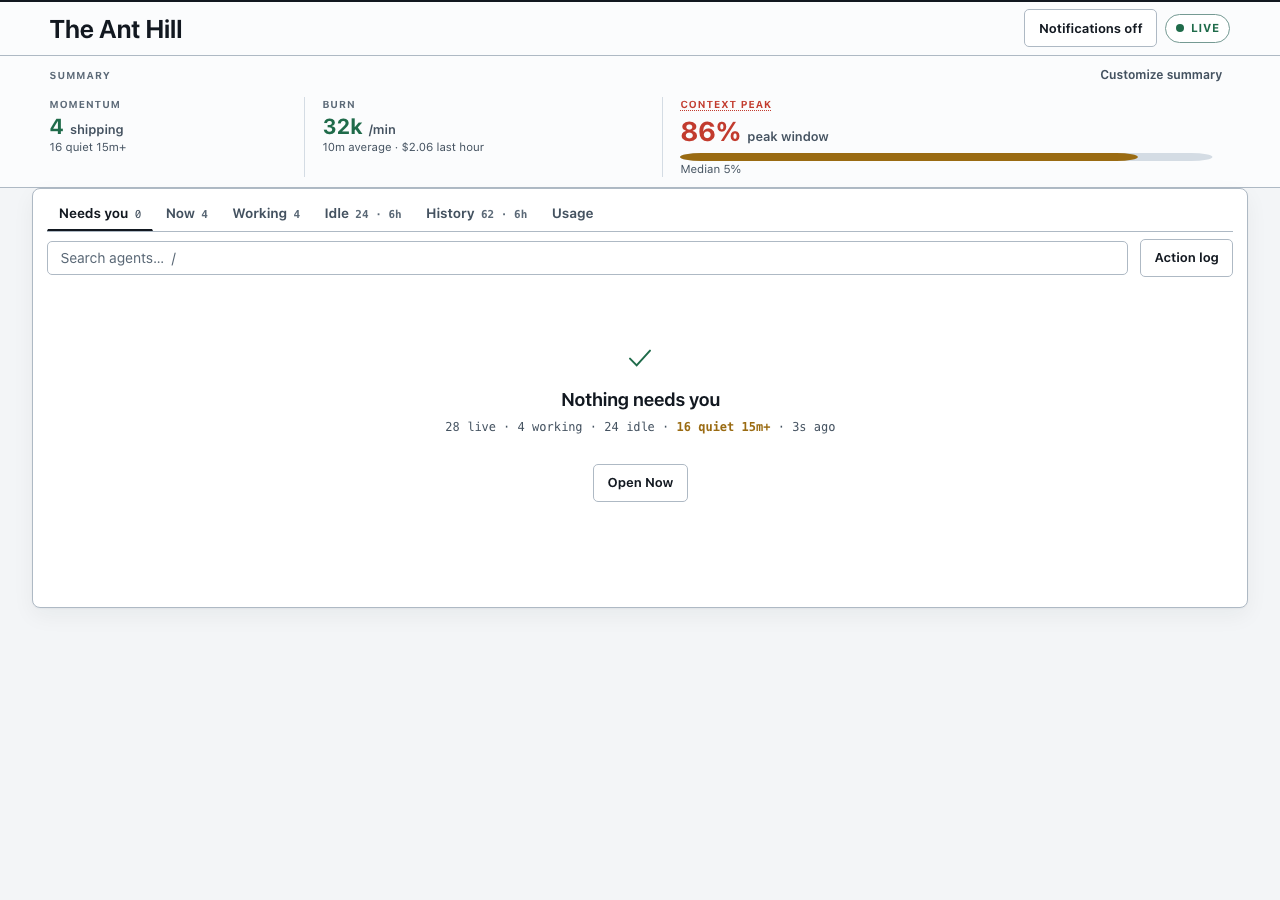
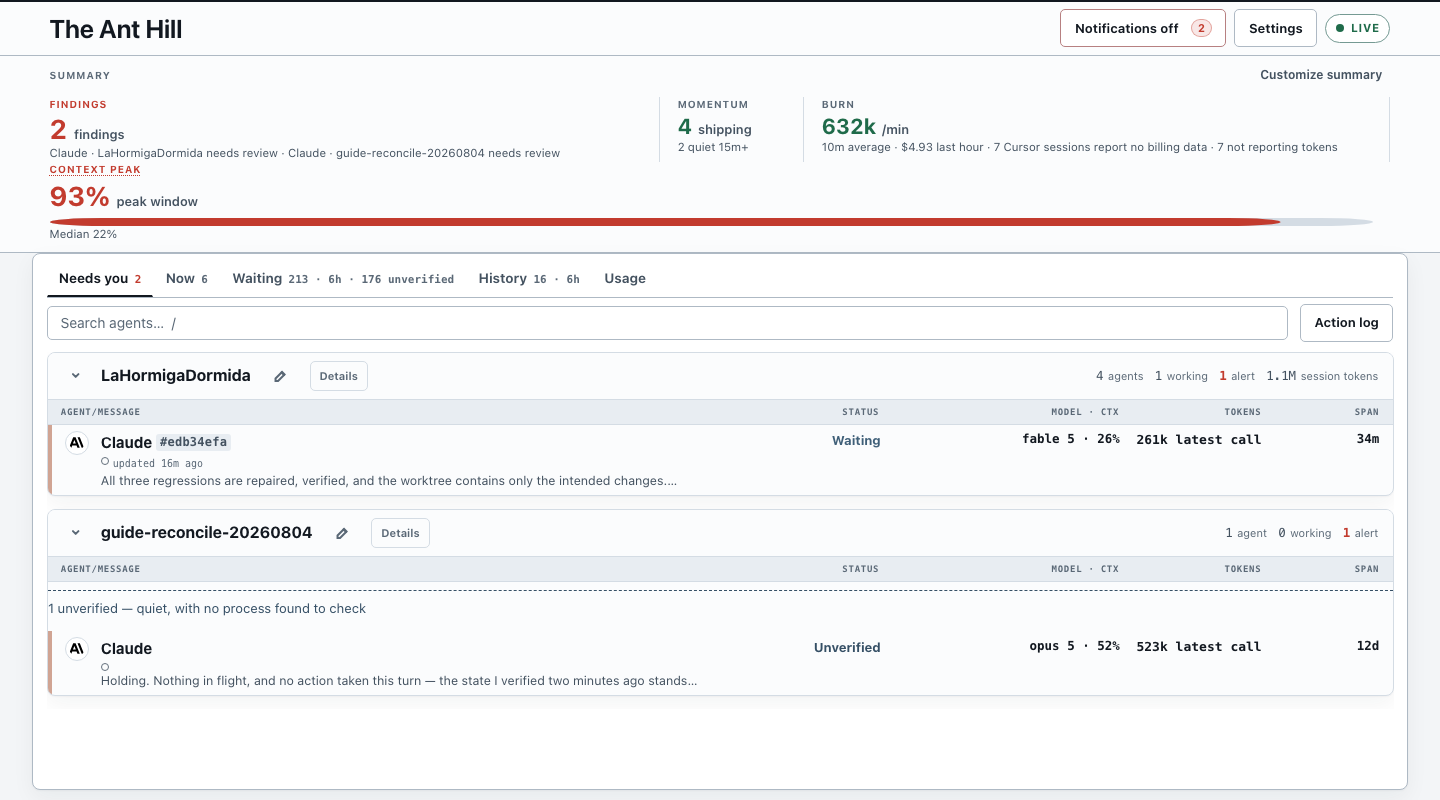
docs(guide): recapture the screenshots against the five-tab board
All six were taken before the lifecycle contract landed, so every one that
showed the tab bar showed six tabs and a vocabulary the product no longer
speaks. Captured from the live board on :4701 at 1440x900.

What the new images now show that the old ones could not: five tabs, the
Waiting tab counting its unverified sessions in the tab itself, and the
Unverified group rendered inside the board with its explanation line.

Two captions were checked against the pixels rather than assumed:

- The summary band caption said "two cards: work in flight, and one session
  near its context limit". The band now paints four, so the sentence named a
  picture that no longer existed. Rewritten to the four that are there.
- The by-provider caption depends on five specific names, two of which are
  not collectors. That list only appears at 30d, so the shot was taken at 30d
  deliberately and the surrounding prose still holds unedited.

The row and drawer captions were re-read against the new images and needed no
change. The drawer happens to have caught a session with no linked terminal,
which illustrates the "without cmux they grey out with a reason" paragraph
directly below it better than the old capture did.

diff --git a/ANT-GUIDE.md b/ANT-GUIDE.md
@@ -59,7 +59,8 @@ Four steps. Do these in order and you have used the tool correctly.
 
 **The band only shows you what it has something to say about.** A card with
 nothing to report is absent, not empty — so the shape of the band is itself the
-signal. Above, two cards: work in flight, and one session near its context limit.
+signal. Above, four cards: two findings to review, the fullest context window on
+the machine, work in flight, and what it is burning.
 
 **When nothing needs you it collapses to a single line** — what is shipping,
 what it is burning, and a one-word verdict. No cards, no numbers to read past.
